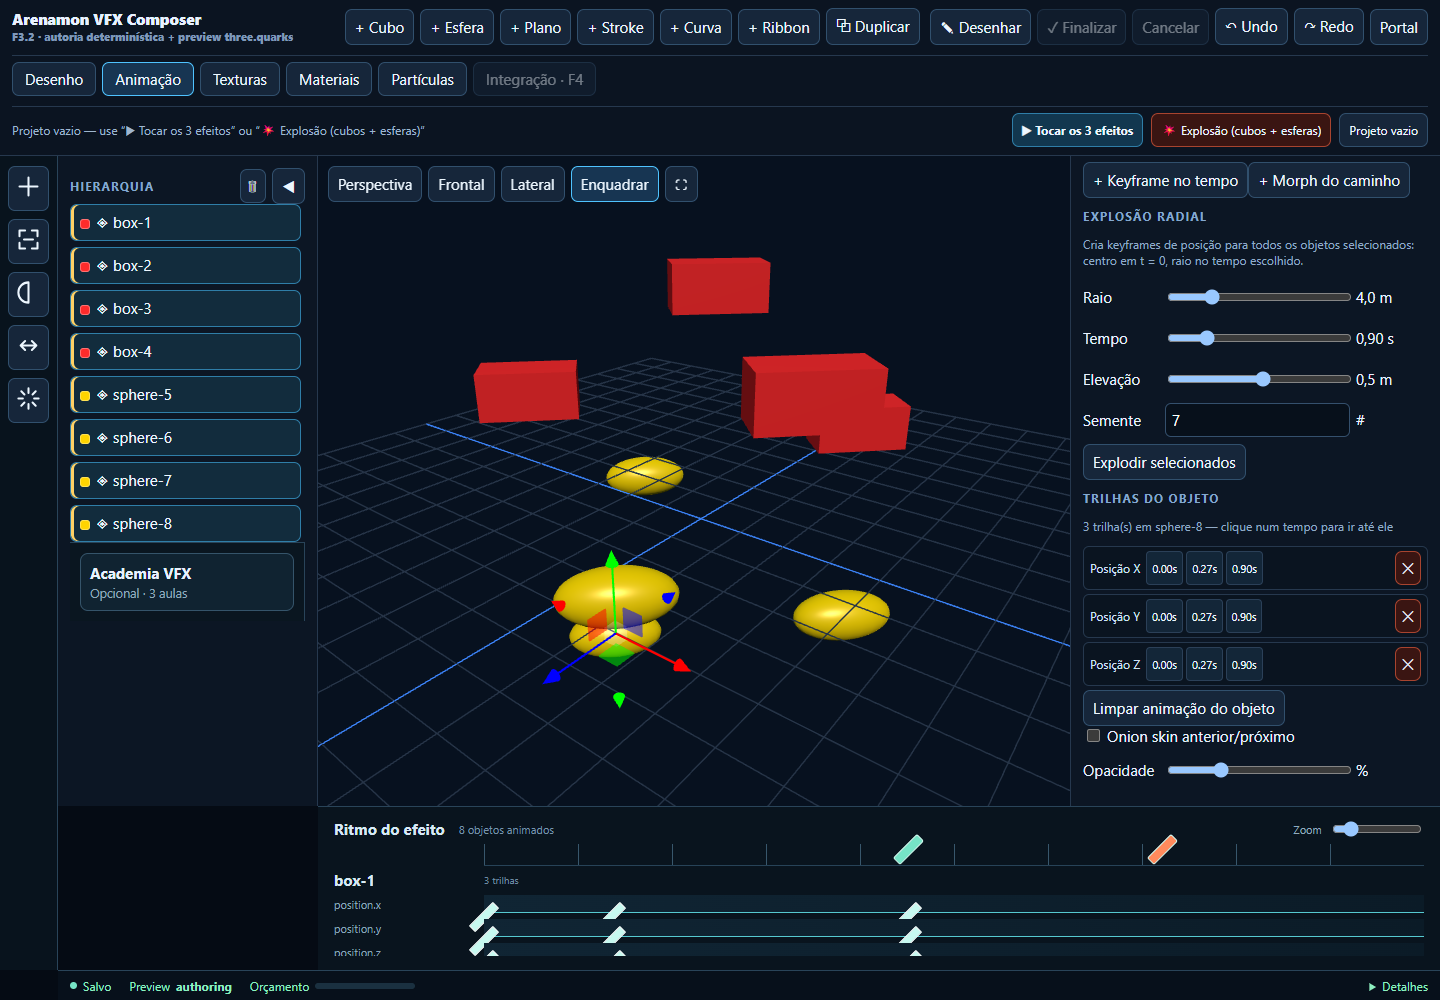
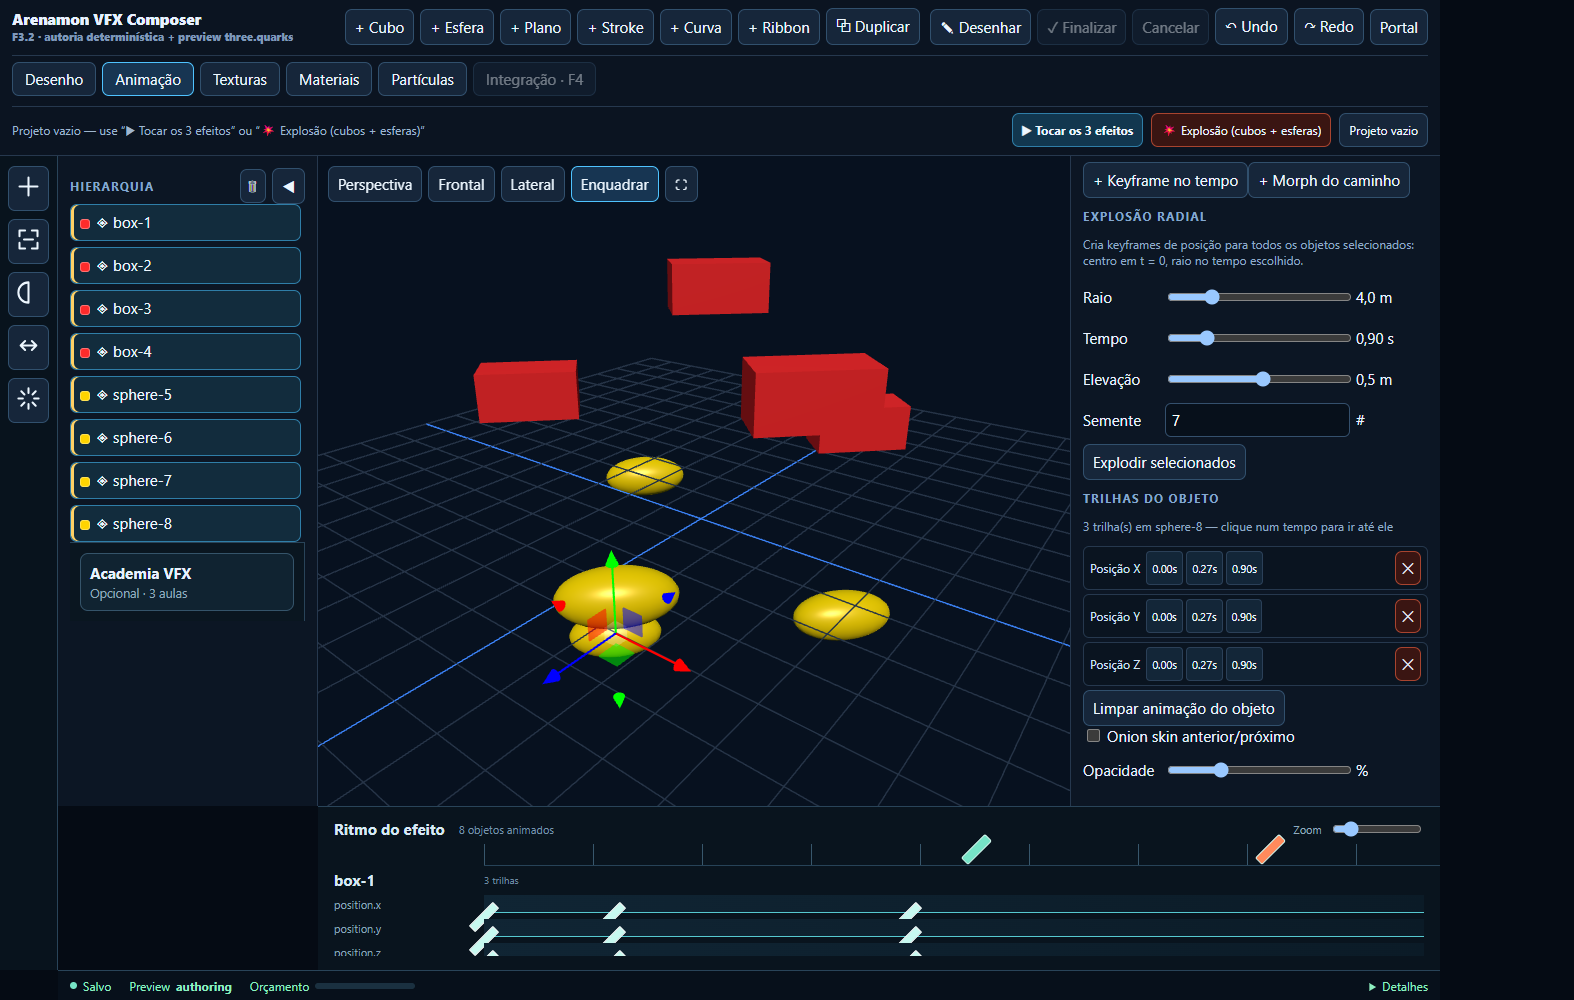
fix(vfx-composer): make academy and timeline fully actionable

diff --git a/prototypes/vfx-composer/src/ui/academy.ts b/prototypes/vfx-composer/src/ui/academy.ts
@@ -8,33 +8,33 @@ export interface StepValidation {ok: boolean; message: string; focusCommandId?: 
 export interface TutorialStep {id: string; title: string; instruction: string; commandId?: string; suggested?: string; validate(project: Readonly<VfxProject>): StepValidation}
 export interface TutorialLesson {id: string; title: string; summary: string; icon?: string; steps: readonly TutorialStep[]}
 interface AcademyOptions {lessons: readonly TutorialLesson[]; storage?: UiPreferenceStorage; getProject(): Readonly<VfxProject>; autosaveSlot: string}
-interface AcademyState {open: boolean; minimized: boolean; session: TutorialSessionRef | null}
+interface AcademyState {open: boolean; minimized: boolean; completed: boolean; session: TutorialSessionRef | null}
 
 const SESSION_KEY = 'arenamon.vfx.academy.v1';
 export const ACADEMY_LESSONS: readonly TutorialLesson[] = [MAGIC_SPHERE_LESSON, ENERGY_SLASH_LESSON, ARCANE_CIRCLE_LESSON];
 export class AcademyController {
   readonly lessons: readonly TutorialLesson[];
-  private current: AcademyState = {open: false, minimized: false, session: null};
+  private current: AcademyState = {open: false, minimized: false, completed: false, session: null};
   constructor(private readonly options: AcademyOptions) {this.lessons = options.lessons;}
   get state(): Readonly<AcademyState> {return structuredClone(this.current);}
   private persist(): void {try {this.options.storage?.setItem(SESSION_KEY, JSON.stringify(this.current.session));} catch { /* sessão continua em memória */ }}
   start(lessonId: string, mode: 'restart' | 'current-project' = 'current-project'): void {
     const lesson = this.lessons.find(item => item.id === lessonId); if (!lesson) throw new Error(`Aula desconhecida: ${lessonId}`);
     const project = this.options.getProject();
-    this.current = {open: true, minimized: false, session: {lessonId, stepId: lesson.steps[0]?.id ?? '', projectId: project.projectId, autosaveSlot: this.options.autosaveSlot}};
+    this.current = {open: true, minimized: false, completed: false, session: {lessonId, stepId: lesson.steps[0]?.id ?? '', projectId: project.projectId, autosaveSlot: this.options.autosaveSlot}};
     void mode;
     this.persist();
   }
   minimize(): void {if (this.current.session) this.current = {...this.current, open: false, minimized: true};}
-  close(): void {this.current = {open: false, minimized: false, session: null}; this.persist();}
+  close(): void {this.current = {open: false, minimized: false, completed: false, session: null}; this.persist();}
   resume(): {status: 'resumed' | 'stale' | 'empty'} {
     let session = this.current.session;
     if (!session) try {session = JSON.parse(this.options.storage?.getItem(SESSION_KEY) ?? 'null') as TutorialSessionRef | null;} catch {session = null;}
     if (!session) return {status: 'empty'};
     const project = this.options.getProject();
     const validLesson = this.lessons.some(lesson => lesson.id === session!.lessonId && lesson.steps.some(step => step.id === session!.stepId));
-    if (!validLesson || session.projectId !== project.projectId || session.autosaveSlot !== this.options.autosaveSlot) return {status: 'stale'};
-    this.current = {open: true, minimized: false, session}; return {status: 'resumed'};
+    if (!validLesson || session.projectId !== project.projectId || session.autosaveSlot !== this.options.autosaveSlot) {this.current = {...this.current, session}; return {status: 'stale'};}
+    this.current = {open: true, minimized: false, completed: false, session}; return {status: 'resumed'};
   }
   recoveryChoices(): Array<'restart' | 'current-project'> {return ['restart', 'current-project'];}
   validateCurrentStep(): StepValidation {
@@ -45,13 +45,13 @@ export class AcademyController {
   next(): void {
     const lesson = this.activeLesson(); if (!lesson || !this.current.session) return;
     const index = lesson.steps.findIndex(step => step.id === this.current.session!.stepId);
-    const next = lesson.steps[Math.min(lesson.steps.length - 1, index + 1)];
-    this.current.session = {...this.current.session, stepId: next.id}; this.persist();
+    if (index >= lesson.steps.length - 1) {this.current = {...this.current, completed: true}; this.persist(); return;}
+    const next = lesson.steps[index + 1]; this.current.session = {...this.current.session, stepId: next.id}; this.persist();
   }
 }
 
 const safe = (value: string): string => value.replace(/[&<>"']/g, c => ({'&':'&amp;','<':'&lt;','>':'&gt;','"':'&quot;',"'":'&#39;'}[c]!));
-export function mountAcademy(root: HTMLElement, controller: AcademyController): void {
+export function mountAcademy(root: HTMLElement, controller: AcademyController, onCommand?: (commandId: string) => void): void {
   const lessonsRoot = root.querySelector<HTMLElement>('#academy-lessons') ?? root;
   const drawer = document.createElement('aside'); drawer.id = 'academy-drawer'; drawer.hidden = true; drawer.setAttribute('aria-label', 'Guia da Academia VFX');
   const chip = document.createElement('button'); chip.id = 'academy-resume'; chip.hidden = true; chip.textContent = 'Retomar aula';
@@ -61,10 +61,14 @@ export function mountAcademy(root: HTMLElement, controller: AcademyController): 
     const lesson = controller.activeLesson(), step = controller.activeStep(); if (!lesson || !step) {drawer.hidden = true; return;}
     const index = lesson.steps.findIndex(item => item.id === step.id), validation = controller.validateCurrentStep();
     drawer.hidden = false; chip.hidden = true;
-    drawer.innerHTML = `<header><span>Aula ${index + 1}/${lesson.steps.length}</span><button data-academy-minimize aria-label="Minimizar tutorial">—</button><button data-academy-close aria-label="Fechar tutorial">×</button></header><div class="academy-progress"><i style="width:${(index + 1) / lesson.steps.length * 100}%"></i></div><strong>${safe(lesson.title)}</strong><h2>${safe(step.title)}</h2><p>${safe(step.instruction)}</p>${step.suggested ? `<small>${safe(step.suggested)}</small>` : ''}<div class="academy-validation" data-ok="${validation.ok}">${safe(validation.message)}</div><button data-academy-check>Verificar etapa</button><button data-academy-next ${validation.ok ? '' : 'disabled'}>${index === lesson.steps.length - 1 ? 'Concluir' : 'Próxima etapa'}</button>`;
+    if (controller.state.completed) {drawer.innerHTML = `<header><span>Aula concluída</span><button data-academy-close aria-label="Fechar tutorial">×</button></header><div class="academy-complete"><strong>VFX pronto para revisão</strong><p>Você concluiu ${safe(lesson.title)} no projeto editável atual.</p></div>`; return;}
+    drawer.innerHTML = `<header><span>Aula ${index + 1}/${lesson.steps.length}</span><button data-academy-minimize aria-label="Minimizar tutorial">—</button><button data-academy-close aria-label="Fechar tutorial">×</button></header><div class="academy-progress"><i style="width:${(index + 1) / lesson.steps.length * 100}%"></i></div><strong>${safe(lesson.title)}</strong><h2>${safe(step.title)}</h2><p>${safe(step.instruction)}</p>${step.suggested ? `<small>${safe(step.suggested)}</small>` : ''}${step.commandId ? `<button data-academy-command="${safe(step.commandId)}">Abrir ferramenta</button>` : ''}<div class="academy-validation" data-ok="${validation.ok}">${safe(validation.message)}</div><button data-academy-check>Verificar etapa</button><button data-academy-next ${validation.ok ? '' : 'disabled'}>${index === lesson.steps.length - 1 ? 'Concluir' : 'Próxima etapa'}</button>`;
   };
   renderCatalog();
   lessonsRoot.onclick = event => {const id = (event.target as HTMLElement).closest<HTMLElement>('[data-lesson]')?.dataset.lesson; if (id) {controller.start(id); renderDrawer();}};
-  drawer.onclick = event => {const target = event.target as HTMLElement; if (target.closest('[data-academy-minimize]')) {controller.minimize(); drawer.hidden = true; chip.hidden = false;} else if (target.closest('[data-academy-close]')) {controller.close(); drawer.hidden = true;} else if (target.closest('[data-academy-check]')) renderDrawer(); else if (target.closest('[data-academy-next]')) {controller.next(); renderDrawer();}};
-  chip.onclick = () => {controller.resume(); renderDrawer();};
+  drawer.onclick = event => {const target = event.target as HTMLElement; const command = target.closest<HTMLElement>('[data-academy-command]')?.dataset.academyCommand; if (command) onCommand?.(command); else if (target.closest('[data-academy-minimize]')) {controller.minimize(); drawer.hidden = true; chip.hidden = false;} else if (target.closest('[data-academy-close]')) {controller.close(); drawer.hidden = true;} else if (target.closest('[data-academy-check]')) renderDrawer(); else if (target.closest('[data-academy-next]')) {controller.next(); renderDrawer();}};
+  chip.onclick = () => {const resumed = controller.resume(); if (resumed.status === 'stale' && controller.state.session) controller.start(controller.state.session.lessonId, 'current-project'); renderDrawer();};
+  const saved = controller.resume();
+  if (saved.status === 'resumed') {controller.minimize(); chip.hidden = false; chip.textContent = 'Retomar aula salva';}
+  if (saved.status === 'stale') {chip.hidden = false; chip.textContent = 'Reiniciar aula neste projeto';}
 }

diff --git a/prototypes/vfx-composer/src/app/main.ts b/prototypes/vfx-composer/src/app/main.ts
@@ -109,13 +109,20 @@ viewportRegion.querySelector('.view-tools')?.insertAdjacentHTML('beforeend', `<b
 appRoot.insertAdjacentHTML('beforeend', `<footer id="authoring-timeline"><div class="timeline-placeholder"><strong>Timeline</strong><span>24 / 30 / 60 FPS</span></div></footer><div id="composer-status" role="status" aria-live="polite">Projeto pronto · Autoral</div>`);
 mountWorkspaceLayout(appRoot, loadUiPreferences(typeof localStorage === 'undefined' ? undefined : localStorage), typeof localStorage === 'undefined' ? undefined : localStorage);
 const click = (selector: string) => (): void => document.querySelector<HTMLButtonElement>(selector)?.click();
-mountCommandPalette(new CommandRegistry([
+const commandRegistry = new CommandRegistry([
   {id: 'frame', label: 'Enquadrar seleção', icon: 'frame', shortcut: 'F', isAvailable: () => true, execute: click('#frame-all')},
   {id: 'keyframe', label: 'Adicionar keyframe', icon: 'keyframe', isAvailable: () => true, execute: click('#add-keyframe')},
   {id: 'duplicate', label: 'Duplicar objeto', icon: 'create', shortcut: 'Ctrl+D', isAvailable: () => true, execute: click('#duplicate-node')},
   {id: 'draw', label: 'Desenhar stroke', icon: 'stroke', isAvailable: () => true, execute: click('#draw-stroke')},
   {id: 'emitter', label: 'Adicionar emissor', icon: 'emitter', isAvailable: () => true, execute: click('#add-emitter')},
-]), () => ({selectedId: document.querySelector('#selection')?.textContent ?? null}));
+  {id: 'create-sphere', label: 'Criar esfera', icon: 'create', isAvailable: () => true, execute: click('#add-sphere')},
+  {id: 'radial-explode', label: 'Explosão radial', icon: 'movement', isAvailable: () => true, execute: () => {document.querySelector<HTMLButtonElement>('[data-workspace="animation"]')?.click(); document.querySelector<HTMLButtonElement>('#radial-explode')?.focus();}},
+  {id: 'backend', label: 'Comparar backends', icon: 'output', isAvailable: () => true, execute: () => {document.querySelector<HTMLButtonElement>('[data-workspace="particles"]')?.click(); document.querySelector<HTMLSelectElement>('#particle-preview-backend')?.focus();}},
+  {id: 'material', label: 'Abrir materiais', icon: 'appearance', isAvailable: () => true, execute: () => document.querySelector<HTMLButtonElement>('[data-workspace="materials"]')?.click()},
+  {id: 'texture', label: 'Abrir texturas', icon: 'appearance', isAvailable: () => true, execute: () => document.querySelector<HTMLButtonElement>('[data-workspace="textures"]')?.click()},
+  {id: 'ribbon', label: 'Criar ribbon', icon: 'ribbon', isAvailable: () => true, execute: click('#add-ribbon')},
+]);
+mountCommandPalette(commandRegistry, () => ({selectedId: document.querySelector('#selection')?.textContent ?? null}));
 enhanceInspector($('.right'));
 
 document.querySelector('.brand small')!.textContent = 'F3.2 · autoria determinística + preview three.quarks';
@@ -182,6 +189,7 @@ const PROJECT_ID = 'composer-local';
 let recovered = initialProject();
 let autosave: AutosaveManager | null = null;
 let recoveryNotice = '';
+let autosaveState: 'saved' | 'pending' | 'error' = 'pending';
 try {
   autosave = new AutosaveManager(localStorage, PROJECT_ID);
   try {
@@ -195,7 +203,7 @@ try {
   }
 } catch { /* file:// pode negar storage; o editor continua em memória */ }
 const store = new DocumentStore(recovered);
-mountAcademy($('#academy-vfx'), new AcademyController({lessons: ACADEMY_LESSONS, storage: typeof localStorage === 'undefined' ? undefined : localStorage, getProject: () => store.project, autosaveSlot: `arenamon.vfx.${store.project.projectId}`}));
+mountAcademy($('#academy-vfx'), new AcademyController({lessons: ACADEMY_LESSONS, storage: typeof localStorage === 'undefined' ? undefined : localStorage, getProject: () => store.project, autosaveSlot: `arenamon.vfx.${store.project.projectId}`}), commandId => commandRegistry.commands.find(command => command.id === commandId)?.execute({selectedId}));
 const timelineView = new TimelineView($('#authoring-timeline'), time => {
   const scrub = document.querySelector<HTMLInputElement>('#timeline-scrub');
   if (scrub) {scrub.value = String(time); scrub.dispatchEvent(new Event('input'));}
@@ -359,7 +367,7 @@ function rebuild(): void {
   syncInspector();
   syncTracks();
   syncParticlePanel();
-  try { autosave?.save(store.project); } catch (error) { $('#status').textContent = `Autosave: ${error instanceof Error ? error.message : 'falhou'}`; }
+  try {if (autosave) {autosave.save(store.project); autosaveState = 'saved';}} catch (error) {autosaveState = 'error'; $('#status').textContent = `Autosave: ${error instanceof Error ? error.message : 'falhou'}`;}
   expose();
 }
 function selected(): VisualNode | undefined { return store.project.nodes.find(node => node.id === selectedId); }
@@ -853,7 +861,7 @@ function updateDraftFromForm(): void {
 function refreshParticleReadout(): void {
   const emitters = currentEmitters();
   const budget = evaluateParticleBudget(emitters, qualityProfile, store.project.accessibility);
-  statusSurface.update({budget, recoveryNotice, backend: previewBackend, autosave: autosave ? 'saved' : 'pending'});
+  statusSurface.update({budget, recoveryNotice, backend: previewBackend, autosave: autosaveState});
   const live = particlePreview.report;
   const quarks = quarksPreview.report;
   const plural = budget.cost.particles === 1 ? 'partícula' : 'partículas';

diff --git a/prototypes/vfx-composer/src/ui/timeline-view.ts b/prototypes/vfx-composer/src/ui/timeline-view.ts
@@ -35,10 +35,10 @@ export class TimelineView {
     const scale = 100 * model.zoom;
     const rows = model.groups.length ? model.groups.flatMap(group => [
       `<div class="timeline-object"><strong>${escapeHtml(group.targetId)}</strong><span>${group.tracks.length} trilhas</span></div>`,
-      ...group.tracks.map(track => `<div class="timeline-track" data-family="${track.family}"><span>${escapeHtml(track.property)}</span><div class="timeline-lane" style="--timeline-scale:${scale}%">${track.keyframes.map(frame => `<button class="timeline-key${frame.selected ? ' selected' : ''}" data-time="${frame.time}" style="left:${Math.min(100, frame.time / model.duration * 100)}%" aria-label="Ir para ${frame.time.toFixed(2)} segundos" title="${frame.time.toFixed(2)} s"></button>`).join('')}</div></div>`)
+      ...group.tracks.map(track => `<div class="timeline-track" data-family="${track.family}"><span>${escapeHtml(track.property)}</span><div class="timeline-lane" style="width:${scale}%">${track.keyframes.map(frame => `<button class="timeline-key${frame.selected ? ' selected' : ''}" data-time="${frame.time}" style="left:${Math.min(100, frame.time / model.duration * 100)}%" aria-label="Ir para ${frame.time.toFixed(2)} segundos" title="${frame.time.toFixed(2)} s"></button>`).join('')}</div></div>`)
     ]).join('') : '<div class="timeline-empty">Adicione keyframes para revelar o ritmo do efeito.</div>';
     const markers = model.markers.map(marker => `<button class="timeline-marker" data-kind="${marker.kind}" data-time="${marker.time}" style="left:${Math.min(100, marker.time / model.duration * 100)}%" title="${escapeHtml(marker.label)}"><span>${escapeHtml(marker.label)}</span></button>`).join('');
-    this.root.innerHTML = `<div class="timeline-head"><strong>Ritmo do efeito</strong><span>${model.groups.length} objetos animados</span><label>Zoom <input data-timeline-zoom type="range" min="0.5" max="4" step="0.25" value="${model.zoom}"></label></div><div class="timeline-ruler">${markers}</div><div class="timeline-rows">${rows}</div>`;
+    this.root.innerHTML = `<div class="timeline-head"><strong>Ritmo do efeito</strong><span>${model.groups.length} objetos animados</span><label>Zoom <input data-timeline-zoom type="range" min="0.5" max="4" step="0.25" value="${model.zoom}"></label></div><div class="timeline-ruler" style="width:${scale}%">${markers}</div><div class="timeline-rows">${rows}</div>`;
     this.root.querySelector<HTMLInputElement>('[data-timeline-zoom]')!.oninput = event => {this.zoom = clampTimelineZoom(Number((event.target as HTMLInputElement).value)); this.update(tracks, {...options, zoom: this.zoom});};
   }
 }

diff --git a/prototypes/vfx-composer/src/app/style.css b/prototypes/vfx-composer/src/app/style.css
@@ -50,6 +50,6 @@ html,body{max-width:100%;overflow-x:hidden}.panel{scrollbar-color:#76e4c7 transp
 .swatch[data-color="#46d7c7"]{background:#46d7c7}
 .swatch[data-color="#8a7bff"]{background:#8a7bff}
 .swatch[data-color="#e8f2ff"]{background:#e8f2ff}
-button:focus-visible,input:focus-visible,select:focus-visible,summary:focus-visible{outline:2px solid #b9fff0;outline-offset:2px}.ui-icon{width:20px;height:20px;display:block;margin:auto}.small-screen-notice{display:none}.app[data-density="reference-80"]{font-size:15px}.app[data-density="reference-80"] button{min-height:34px}
+button:focus,button:focus-visible,input:focus-visible,select:focus-visible,summary:focus-visible{outline:2px solid #b9fff0;outline-offset:2px}.ui-icon{width:20px;height:20px;display:block;margin:auto}.small-screen-notice{display:none}.app[data-density="reference-80"]{font-size:15px}.app[data-density="reference-80"] button{min-height:34px}
 @media(prefers-reduced-motion:reduce){*,*::before,*::after{scroll-behavior:auto!important;transition:none!important;animation:none!important}}
 @media(max-width:760px){.app>*:not(.small-screen-notice){display:none!important}.app{display:block;background:#07111b}.small-screen-notice{display:grid;place-items:center;height:100vh;padding:32px;text-align:center;color:#d9fff5;font-size:18px}}
